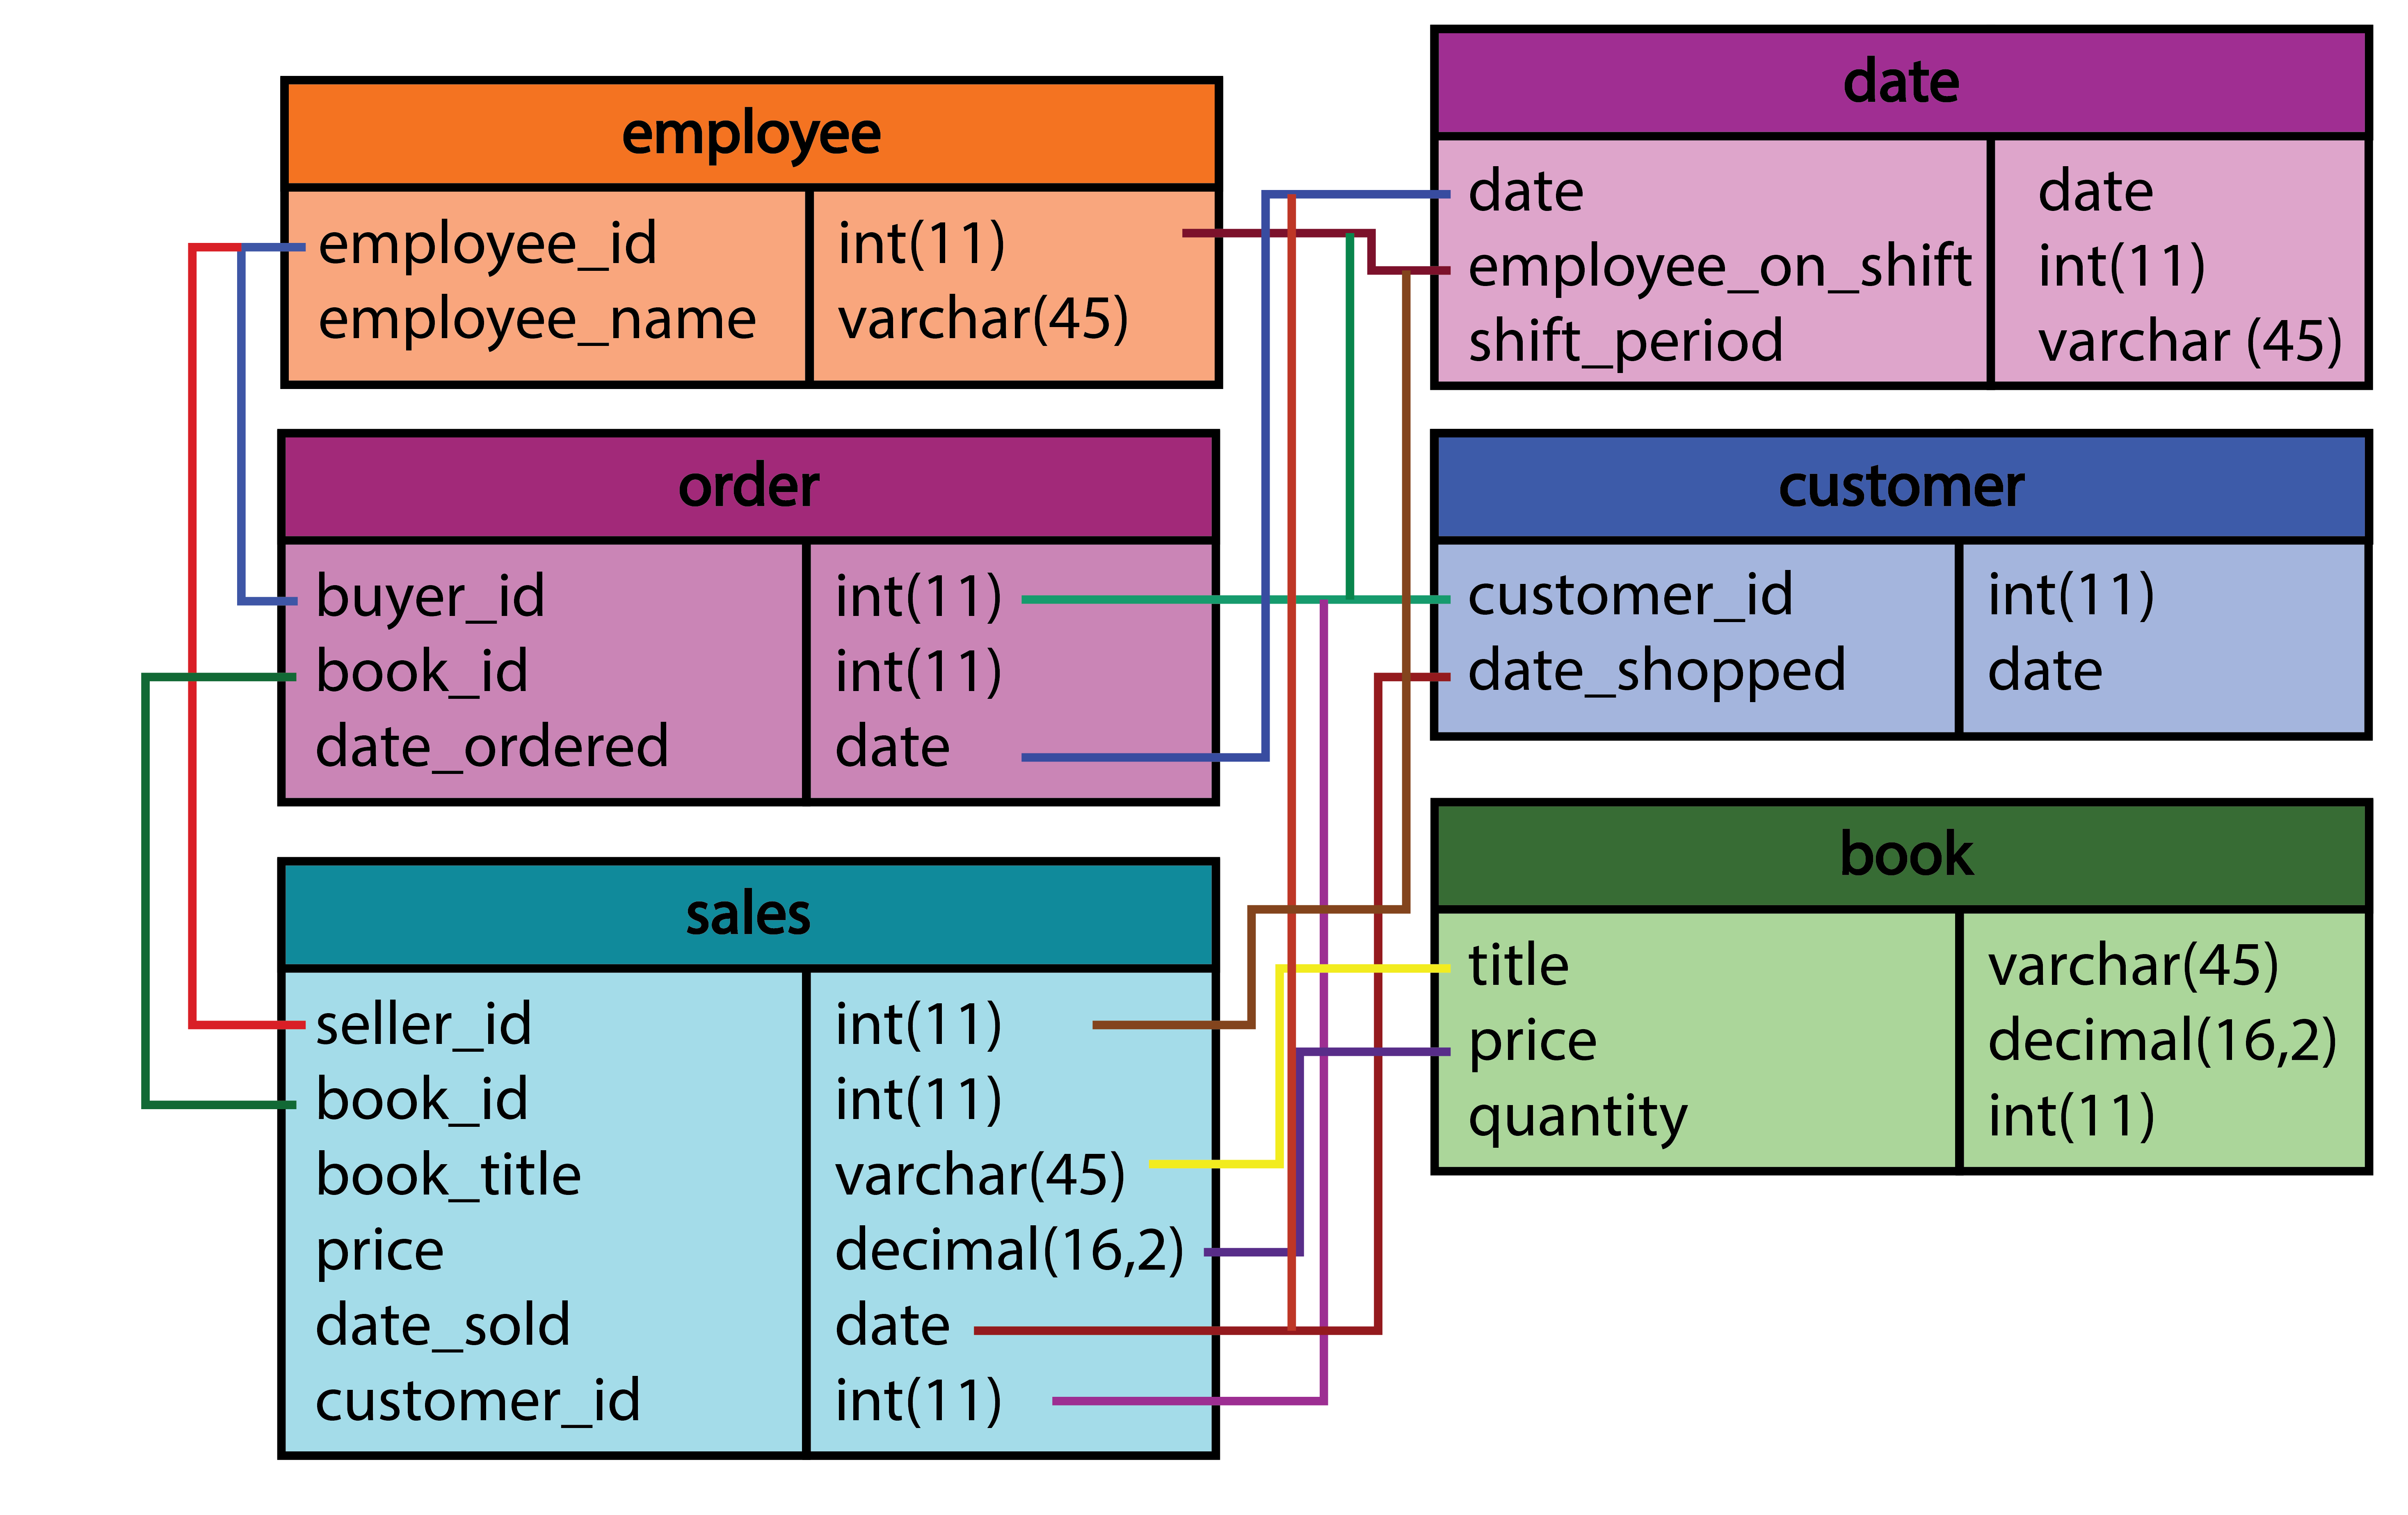
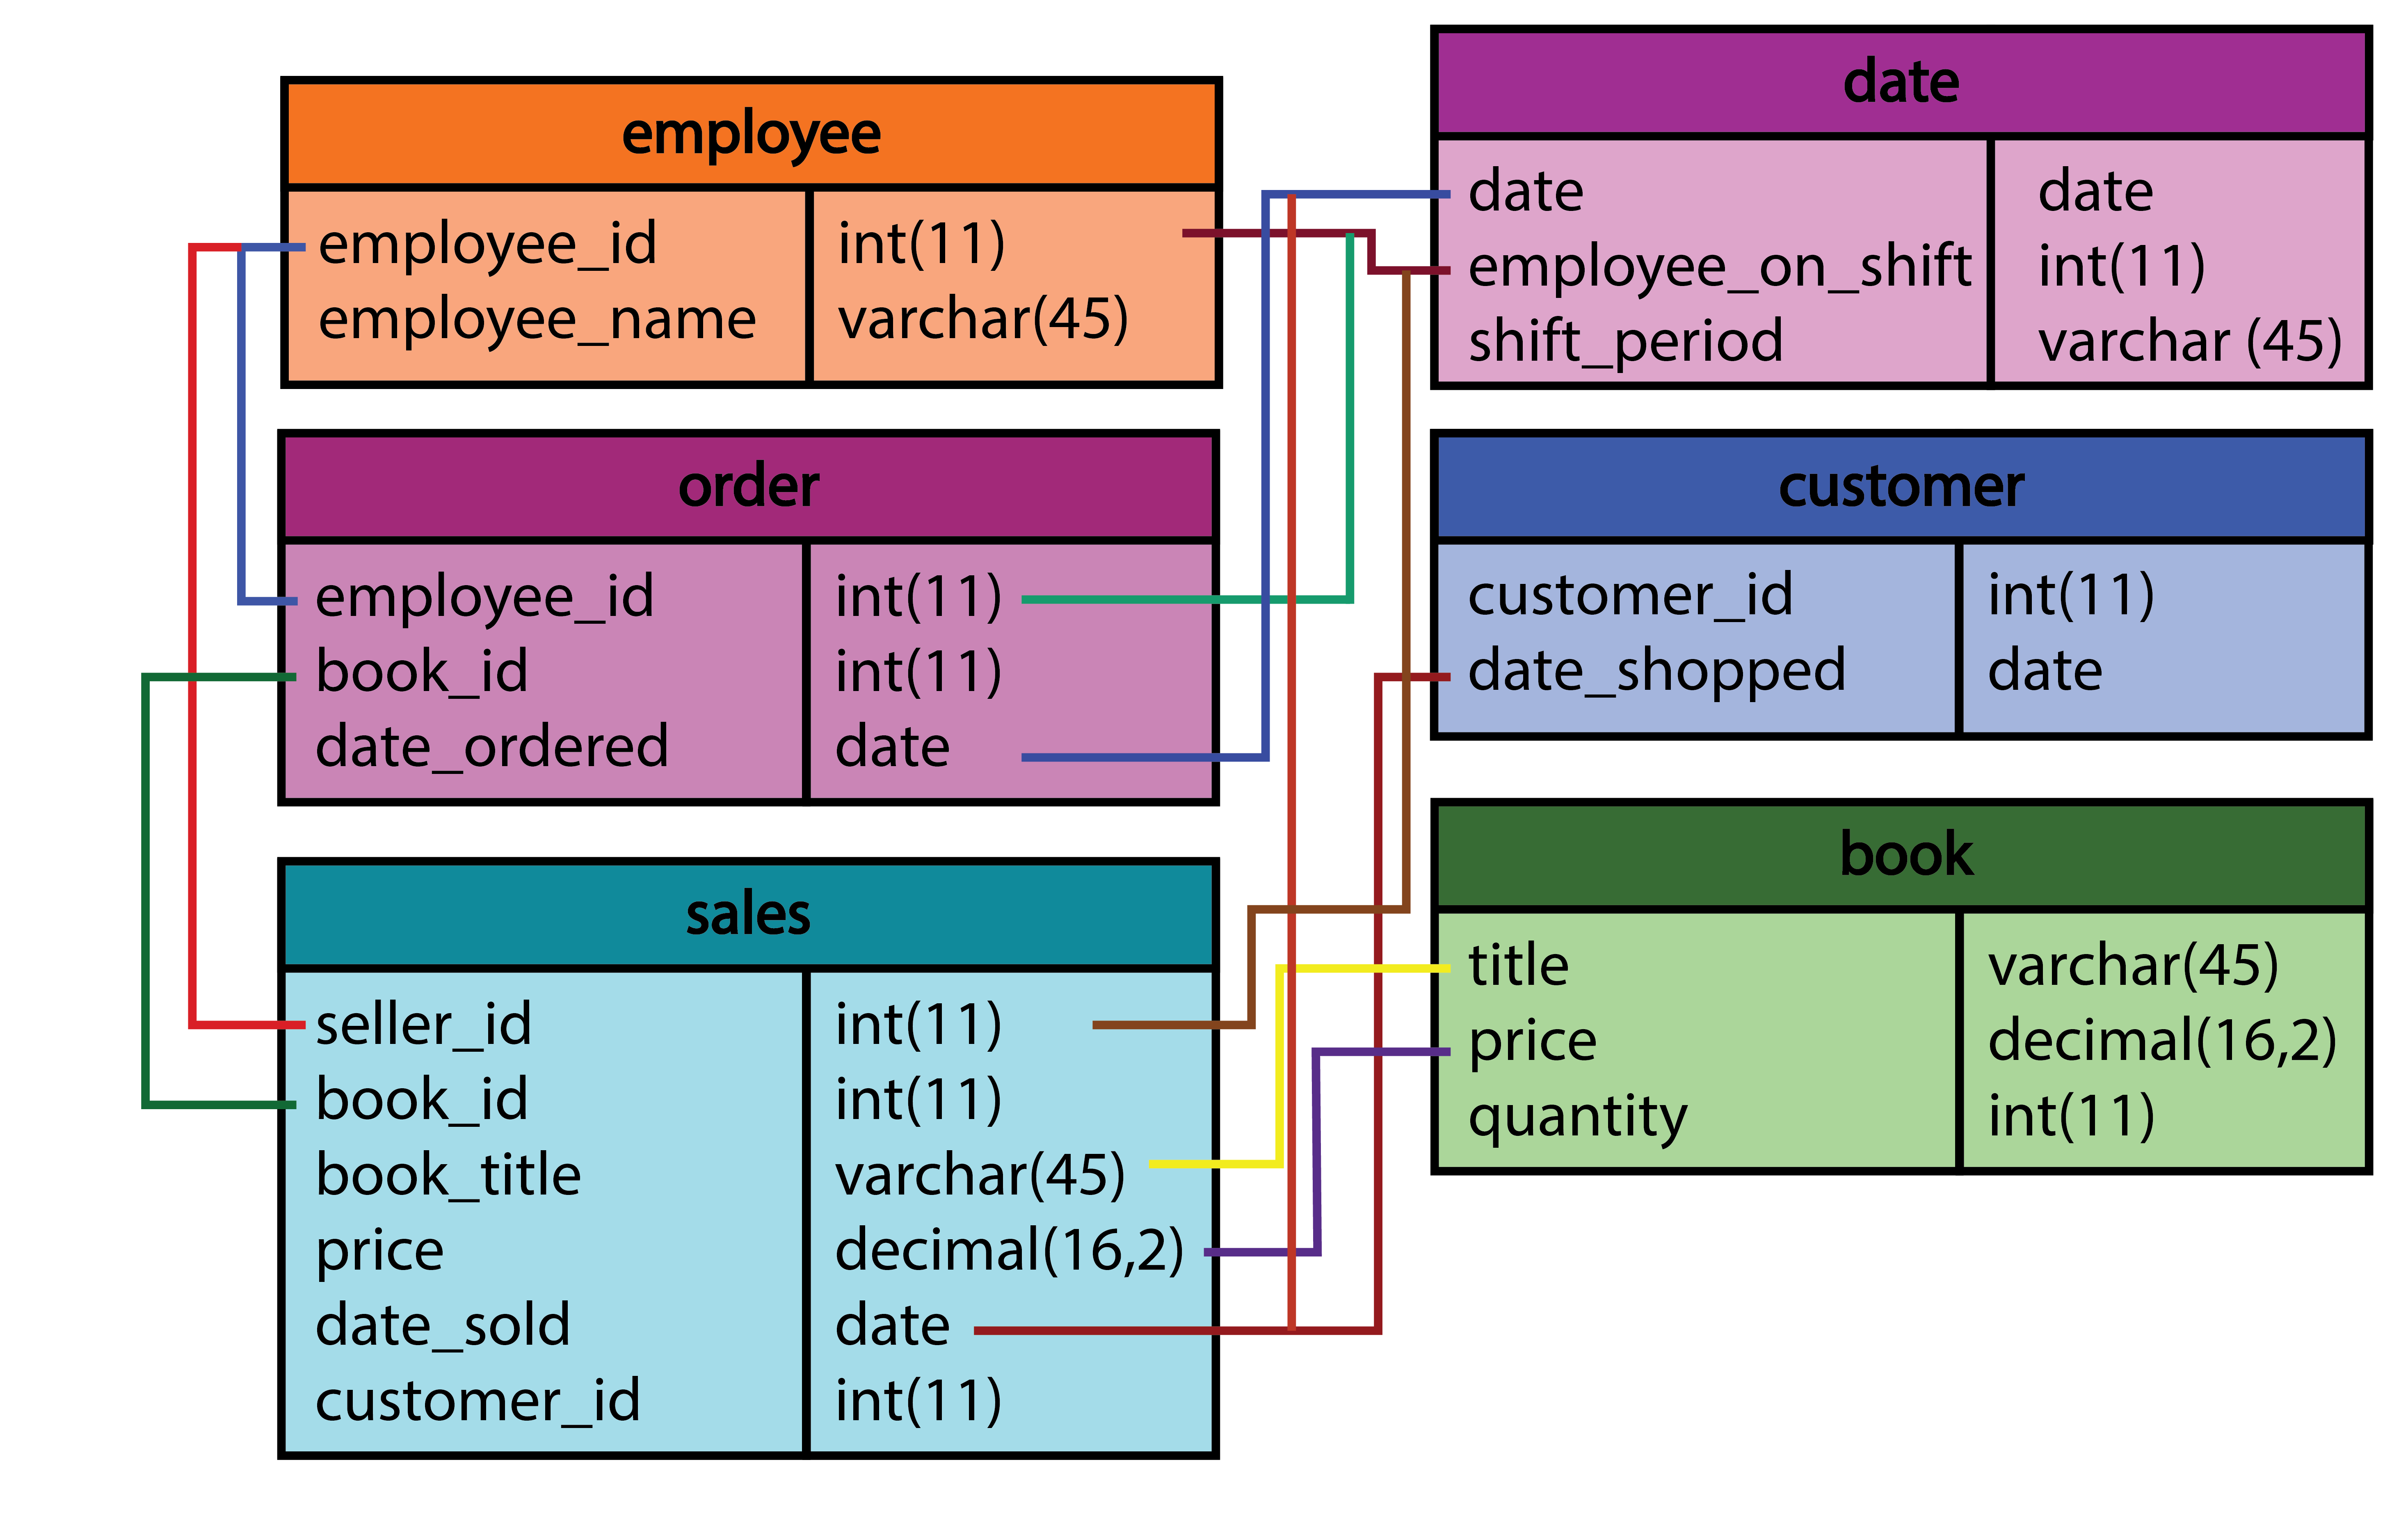
Added section 4 response to Assignment2.md.

diff --git a/02_activities/assignments/Assignment2.md b/02_activities/assignments/Assignment2.md
@@ -58,7 +58,9 @@ The store wants to keep customer addresses. Propose two architectures for the CU
 **HINT:** search type 1 vs type 2 slowly changing dimensions. 
 
 ```
-Your answer...
+Type 1 slowly changing dimension overwrites existing values and doesn't retain history. In terms of table architecture, there would be a customer_id column with unique values, as well as a customer_address column. A customer's address would be simply overwritten.
+
+Type 2 adds a new row while maintaining the previous row(s) for historical purposes. In the table, customer_id would no longer have unique values only. If a customer's address had changed, they would be found in the table multiple times. Ideally, there would also be a date_added column so one could easily obtain to most recent address on record for a given customer. 
 ```
 
 ***